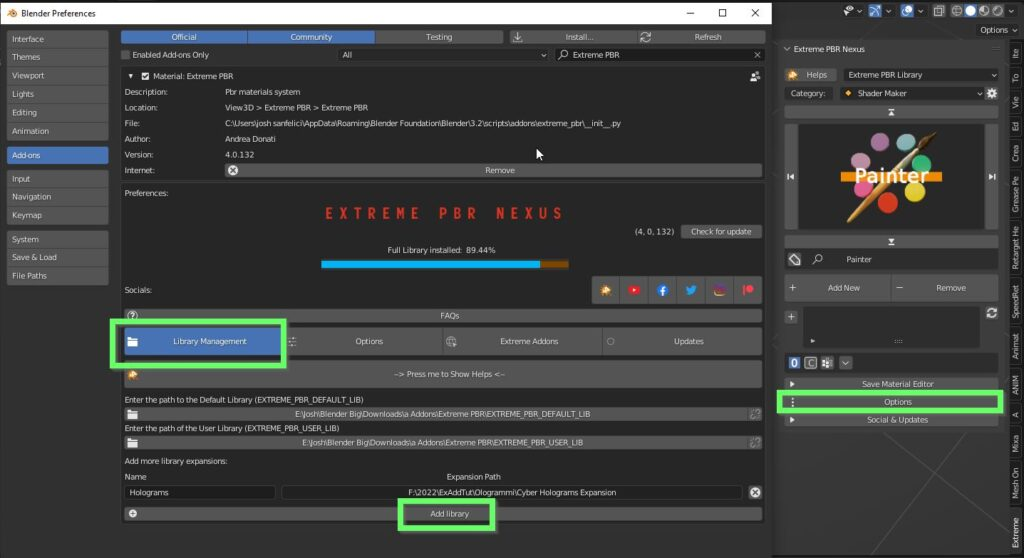
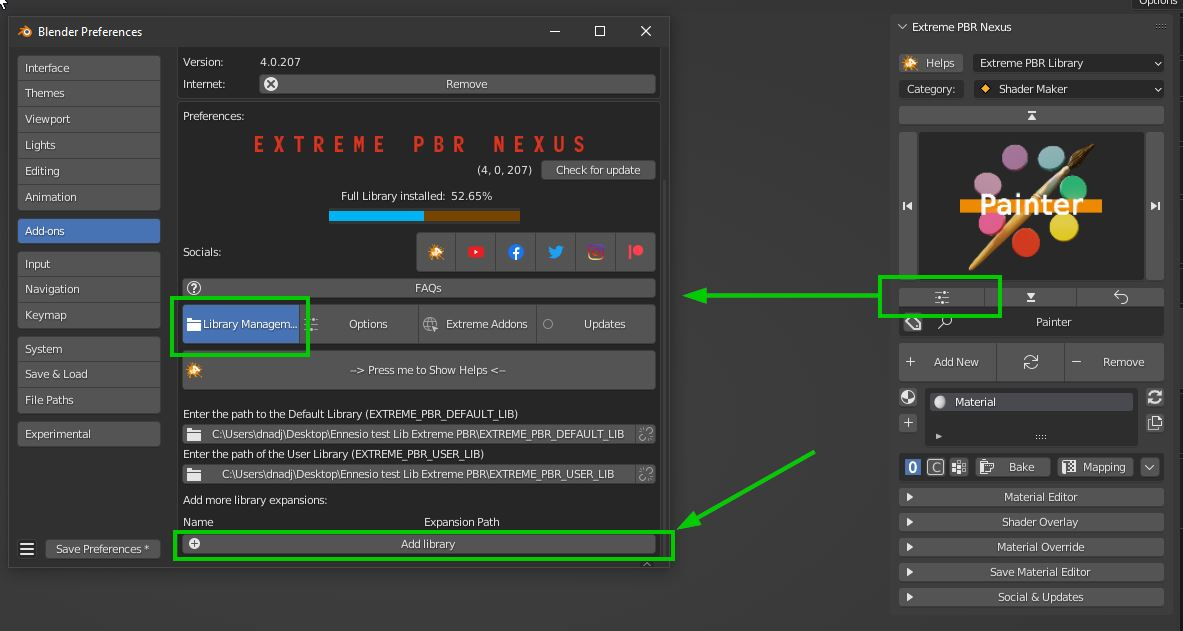
Build Cyber Holograms Docs

diff --git a/docs/_build/html/installation.html b/docs/_build/html/installation.html
@@ -46,6 +46,7 @@
 <ul class="current">
 <li class="toctree-l1 current"><a class="current reference internal" href="#">Installation</a><ul>
 <li class="toctree-l2"><a class="reference internal" href="#install-into-extreme-pbr">Install into Extreme PBR:</a></li>
+<li class="toctree-l2"><a class="reference internal" href="#install-into-asset-browser">Install into Asset Browser</a></li>
 </ul>
 </li>
 </ul>
@@ -84,7 +85,8 @@
 <li><p>Cyber Hologram Assets (Version for Blender asset browser)</p></li>
 <li><p>Cyber Hologram Expansion (Version for Extreme PBR)</p></li>
 </ul>
-<p>Pay attention to which version you want to install, if you have any doubts please proceed with this guide.</p>
+<p>Pay attention to which version you want to install, if you have any doubts please proceed with this guide.
+<strong>the versions are contained in the zip file “Cyber Holograms.zip”</strong></p>
 </div>
 <section id="install-into-extreme-pbr">
 <h2>Install into Extreme PBR:<a class="headerlink" href="#install-into-extreme-pbr" title="Permalink to this heading"></a></h2>
@@ -92,7 +94,35 @@
 “Cyber Holograms Expansion” inside Extreme PBR</p>
 <iframe width="560" height="315" src="https://www.youtube.com/embed/yc5Xw7eW_rw" title="YouTube video player"
 frameborder="0" allow="accelerometer; autoplay; clipboard-write; encrypted-media; gyroscope; picture-in-picture;
-web-share" allowfullscreen></iframe></section>
+web-share" allowfullscreen style="display: block; margin: auto;"></iframe><hr class="docutils" />
+<p><strong>Add Expansion into Extreme PBR</strong></p>
+<p>Take 2 minutes and make sure you have downloaded the necessary files for the installation, once you have downloaded
+the files make sure you have the folder <strong>“Cyber Holograms Expansion”</strong> which is the one to add to the extensions of Extreme PBR</p>
+<p>So let’s proceed, to add the expansion to Extreme PBR, open Extreme PBR and press on <strong>Options &gt; Library Management &gt; Add Library</strong></p>
+<a class="reference internal image-reference" href="_images/add_into_extreme_pbr_expansion_01.jpg"><img alt="add_into_extreme_pbr_expansion_01" class="align-center" src="_images/add_into_extreme_pbr_expansion_01.jpg" style="width: 800px;" /></a>
+<hr class="docutils" />
+<p><strong>Set a name for the new Library, i.e. Holograms</strong></p>
+<a class="reference internal image-reference" href="_images/add_into_extreme_pbr_expansion_02.jpg"><img alt="add_into_extreme_pbr_expansion_02" class="align-center" src="_images/add_into_extreme_pbr_expansion_02.jpg" style="width: 800px;" /></a>
+<hr class="docutils" />
+<p><strong>Press Choose path and select the folder</strong></p>
+<a class="reference internal image-reference" href="_images/add_into_extreme_pbr_expansion_03.jpg"><img alt="add_into_extreme_pbr_expansion_03" class="align-center" src="_images/add_into_extreme_pbr_expansion_03.jpg" style="width: 800px;" /></a>
+<hr class="docutils" />
+<p><strong>Double click on the folder to open it, then press the “Choose path” button</strong></p>
+<a class="reference internal image-reference" href="_images/add_into_extreme_pbr_expansion_04.jpg"><img alt="add_into_extreme_pbr_expansion_04" class="align-center" src="_images/add_into_extreme_pbr_expansion_04.jpg" style="width: 800px;" /></a>
+<hr class="docutils" />
+<p><strong>You will find the new Library in the Libraries dropdown menu</strong></p>
+<a class="reference internal image-reference" href="_images/add_into_extreme_pbr_expansion_05.jpg"><img alt="add_into_extreme_pbr_expansion_05" class="align-center" src="_images/add_into_extreme_pbr_expansion_05.jpg" style="width: 300px;" /></a>
+<hr class="docutils" />
+<p><strong>Once selected you’ll have access to all different Hologram and Light Rays materials</strong></p>
+<a class="reference internal image-reference" href="_images/add_into_extreme_pbr_expansion_06.jpg"><img alt="add_into_extreme_pbr_expansion_06" class="align-center" src="_images/add_into_extreme_pbr_expansion_06.jpg" style="width: 800px;" /></a>
+</section>
+<hr class="docutils" />
+<section id="install-into-asset-browser">
+<h2>Install into Asset Browser<a class="headerlink" href="#install-into-asset-browser" title="Permalink to this heading"></a></h2>
+<p>Here is a video tutorial on how to install the version for the asset browser in Blender</p>
+<iframe width="560" height="315" src="https://www.youtube.com/embed/Li6ckkrM0-g" title="YouTube video player"
+frameborder="0" allow="accelerometer; autoplay; clipboard-write; encrypted-media; gyroscope; picture-in-picture;
+web-share" allowfullscreen style="display: block; margin: auto;"></iframe></section>
 </section>
 
 

diff --git a/docs/_build/html/searchindex.js b/docs/_build/html/searchindex.js
@@ -1,1 +1,1 @@
-Search.setIndex({"docnames": ["index", "installation"], "filenames": ["index.rst", "installation.rst"], "titles": ["Welcome to Cyber Holograms\u2019s documentation!", "Installation"], "terms": {"index": [], "modul": [], "search": [], "page": [], "welcom": 1, "guid": 1, "hologram": 1, "expans": 1, "you": 1, "own": 1, "here": 1, "i": 1, "video": 1, "tutori": 1, "how": 1, "pack": 1, "cyber": 1, "insid": 1, "instal": 0, "extrem": 0, "pbr": 0, "distribut": 1, "2": 1, "version": 1, "find": 1, "follow": 1, "your": 1, "download": 1, "asset": 1, "To": [], "blender": 1, "browser": 1, "pai": 1, "attent": 1, "which": 1, "want": 1, "have": 1, "ani": 1, "doubt": 1, "pleas": 1, "proce": 1, "thi": 1, "If": 1, "type": [], "librari": [], "work": [], "cyle": [], "render": [], "eeve": [], "The": [], "packag": [], "": [], "nexu": [], "contain": [], "precis": [], "note": [], "separ": []}, "objects": {}, "objtypes": {}, "objnames": {}, "titleterms": {"welcom": 0, "cyber": 0, "hologram": 0, "": 0, "document": 0, "indic": [], "tabl": [], "instal": 1, "extrem": 1, "pbr": 1, "content": 0, "materi": [], "For": [], "blender": []}, "envversion": {"sphinx.domains.c": 2, "sphinx.domains.changeset": 1, "sphinx.domains.citation": 1, "sphinx.domains.cpp": 8, "sphinx.domains.index": 1, "sphinx.domains.javascript": 2, "sphinx.domains.math": 2, "sphinx.domains.python": 3, "sphinx.domains.rst": 2, "sphinx.domains.std": 2, "sphinx": 57}, "alltitles": {"Installation": [[1, "installation"]], "Install into Extreme PBR:": [[1, "install-into-extreme-pbr"]], "Welcome to Cyber Holograms\u2019s documentation!": [[0, "welcome-to-cyber-holograms-s-documentation"]], "Contents:": [[0, null]]}, "indexentries": {}})
+Search.setIndex({"docnames": ["index", "installation"], "filenames": ["index.rst", "installation.rst"], "titles": ["Welcome to Cyber Holograms\u2019s documentation!", "Installation"], "terms": {"index": [], "modul": [], "search": [], "page": [], "welcom": 1, "guid": 1, "hologram": 1, "expans": 1, "you": 1, "own": 1, "here": 1, "i": 1, "video": 1, "tutori": 1, "how": 1, "pack": 1, "cyber": 1, "insid": 1, "instal": 0, "extrem": 0, "pbr": 0, "distribut": 1, "2": 1, "version": 1, "find": 1, "follow": 1, "your": 1, "download": 1, "asset": 0, "To": [], "blender": 1, "browser": 0, "pai": 1, "attent": 1, "which": 1, "want": 1, "have": 1, "ani": 1, "doubt": 1, "pleas": 1, "proce": 1, "thi": 1, "If": 1, "type": [], "librari": 1, "work": [], "cyle": [], "render": [], "eeve": [], "The": [], "packag": [], "": 1, "nexu": [], "contain": 1, "precis": [], "note": [], "separ": [], "add": 1, "take": 1, "minut": 1, "make": 1, "sure": 1, "necessari": 1, "file": 1, "onc": 1, "folder": 1, "one": 1, "extens": 1, "so": 1, "let": 1, "open": 1, "press": 1, "option": 1, "manag": 1, "set": 1, "name": 1, "new": 1, "e": 1, "choos": 1, "path": 1, "select": 1, "doubl": 1, "click": 1, "button": 1, "dropdown": 1, "menu": 1, "ll": 1, "access": 1, "all": 1, "differ": 1, "light": 1, "rai": 1, "materi": 1, "ar": 1, "zip": 1}, "objects": {}, "objtypes": {}, "objnames": {}, "titleterms": {"welcom": 0, "cyber": 0, "hologram": 0, "": 0, "document": 0, "indic": [], "tabl": [], "instal": 1, "extrem": 1, "pbr": 1, "content": 0, "materi": [], "For": [], "blender": [], "add": [], "expans": [], "asset": 1, "browser": 1}, "envversion": {"sphinx.domains.c": 2, "sphinx.domains.changeset": 1, "sphinx.domains.citation": 1, "sphinx.domains.cpp": 8, "sphinx.domains.index": 1, "sphinx.domains.javascript": 2, "sphinx.domains.math": 2, "sphinx.domains.python": 3, "sphinx.domains.rst": 2, "sphinx.domains.std": 2, "sphinx": 57}, "alltitles": {"Welcome to Cyber Holograms\u2019s documentation!": [[0, "welcome-to-cyber-holograms-s-documentation"]], "Contents:": [[0, null]], "Installation": [[1, "installation"]], "Install into Extreme PBR:": [[1, "install-into-extreme-pbr"]], "Install into Asset Browser": [[1, "install-into-asset-browser"]]}, "indexentries": {}})

diff --git a/docs/_build/html/index.html b/docs/_build/html/index.html
@@ -82,6 +82,7 @@
 <ul>
 <li class="toctree-l1"><a class="reference internal" href="installation.html">Installation</a><ul>
 <li class="toctree-l2"><a class="reference internal" href="installation.html#install-into-extreme-pbr">Install into Extreme PBR:</a></li>
+<li class="toctree-l2"><a class="reference internal" href="installation.html#install-into-asset-browser">Install into Asset Browser</a></li>
 </ul>
 </li>
 </ul>

diff --git a/docs/installation.rst b/docs/installation.rst
@@ -9,6 +9,7 @@ Welcome to the installation guide for Holograms Expansion
           - Cyber Hologram Expansion (Version for Extreme PBR)
 
           Pay attention to which version you want to install, if you have any doubts please proceed with this guide.
+          **The versions are contained in the zip file "Cyber Holograms.zip"**
 
 Install into Extreme PBR:
 ----------------------------
@@ -17,12 +18,102 @@ If you own Extreme PBR here is a video tutorial on how to install the expansion 
 "Cyber Holograms Expansion" inside Extreme PBR
 
 
-
 .. raw:: html
 
         <iframe width="560" height="315" src="https://www.youtube.com/embed/yc5Xw7eW_rw" title="YouTube video player"
         frameborder="0" allow="accelerometer; autoplay; clipboard-write; encrypted-media; gyroscope; picture-in-picture;
-        web-share" allowfullscreen></iframe>
+        web-share" allowfullscreen style="display: block; margin: auto;"></iframe>
+
+
+------------------------------------------------------------------------------------------------------------------------
+
+
+**Add Expansion into Extreme PBR**
+
+
+Take 2 minutes and make sure you have downloaded the necessary files for the installation, once you have downloaded
+the files make sure you have the folder **"Cyber Holograms Expansion"** which is the one to add to the extensions of Extreme PBR
+
+So let's proceed, to add the expansion to Extreme PBR, open Extreme PBR and press on **Options > Library Management > Add Library**
+
+
+.. image:: _static/_images/installation/add_into_extreme_pbr_expansion_01.jpg
+    :align: center
+    :width: 800
+    :alt: add_into_extreme_pbr_expansion_01
+
+------------------------------------------------------------------------------------------------------------------------
+
+**Set a name for the new Library, i.e. Holograms**
+
+.. image:: _static/_images/installation/add_into_extreme_pbr_expansion_02.jpg
+    :align: center
+    :width: 800
+    :alt: add_into_extreme_pbr_expansion_02
+
+------------------------------------------------------------------------------------------------------------------------
+
+
+**Press Choose path and select the folder**
+
+
+.. image:: _static/_images/installation/add_into_extreme_pbr_expansion_03.jpg
+    :align: center
+    :width: 800
+    :alt: add_into_extreme_pbr_expansion_03
+
+
+------------------------------------------------------------------------------------------------------------------------
+
+**Double click on the folder to open it, then press the “Choose path” button**
+
+
+.. image:: _static/_images/installation/add_into_extreme_pbr_expansion_04.jpg
+    :align: center
+    :width: 800
+    :alt: add_into_extreme_pbr_expansion_04
+
+
+------------------------------------------------------------------------------------------------------------------------
+
+**You will find the new Library in the Libraries dropdown menu**
+
+.. image:: _static/_images/installation/add_into_extreme_pbr_expansion_05.jpg
+    :align: center
+    :width: 300
+    :alt: add_into_extreme_pbr_expansion_05
+
+------------------------------------------------------------------------------------------------------------------------
+
+
+**Once selected you’ll have access to all different Hologram and Light Rays materials**
+
+
+.. image:: _static/_images/installation/add_into_extreme_pbr_expansion_06.jpg
+    :align: center
+    :width: 800
+    :alt: add_into_extreme_pbr_expansion_06
+
+
+------------------------------------------------------------------------------------------------------------------------
+
+
+Install into Asset Browser
+----------------------------
+
+
+Here is a video tutorial on how to install the version for the asset browser in Blender
+
+
+.. raw:: html
+
+        <iframe width="560" height="315" src="https://www.youtube.com/embed/Li6ckkrM0-g" title="YouTube video player"
+        frameborder="0" allow="accelerometer; autoplay; clipboard-write; encrypted-media; gyroscope; picture-in-picture;
+        web-share" allowfullscreen style="display: block; margin: auto;"></iframe>
+
+
+
+
 
 
 
